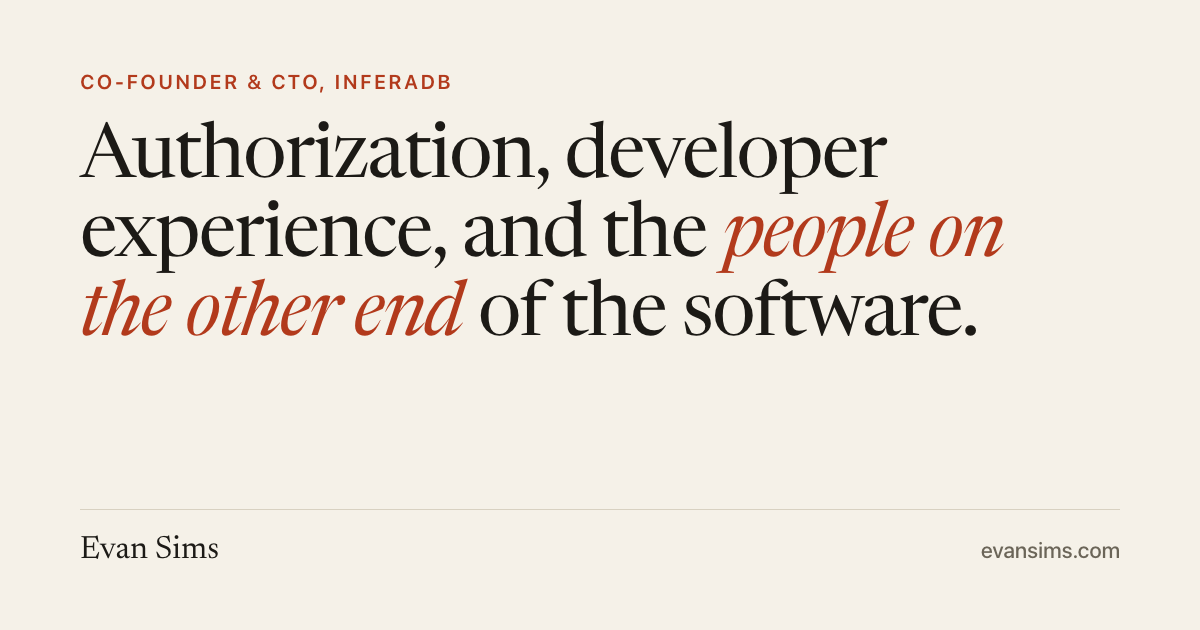
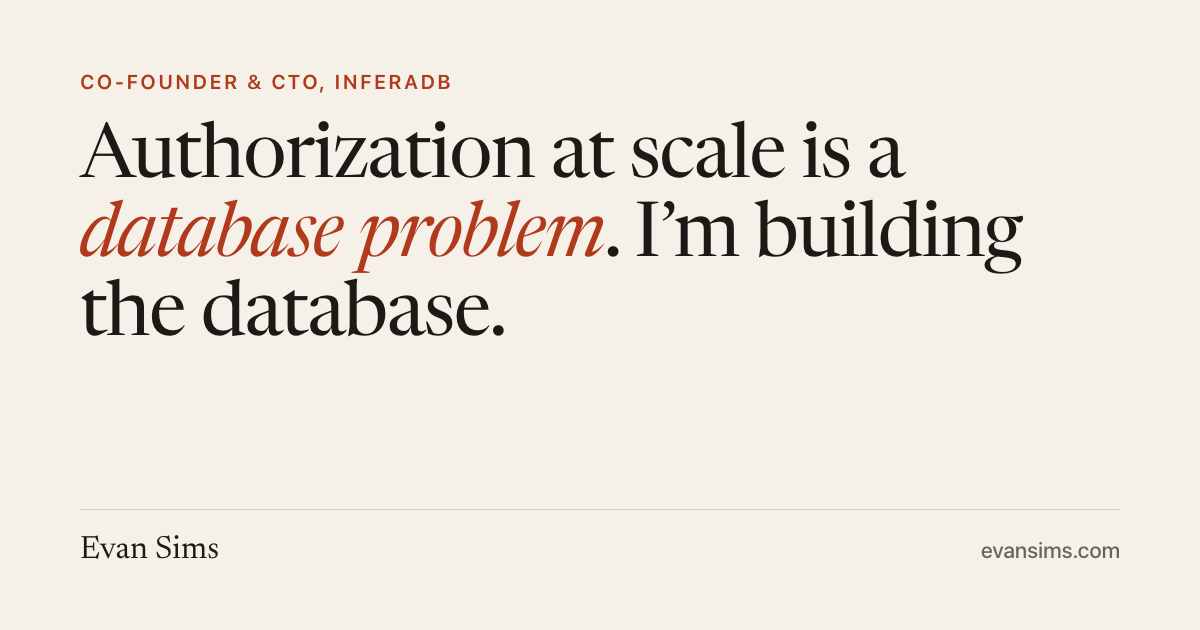
feat: lead the homepage with InferaDB and close on the ask
Rewrite the hero around a thesis headline, link InferaDB in the label
and lead, and point the actions at InferaDB and the writing. The lead
names the advisory work without naming the consultancy.

Add an "In their words" strip fed by _data/endorsements.yml, narrow
Selected writing to six engineering essays, and replace "Elsewhere"
with a "Work with me" close that follows the personal line.

Sharpen the InferaDB and Auth0 Record rows, update the site
description, give the section links 44px tap targets, and re-render
the social card with the new headline.

Changed region(s): [[0.0617, 0.181, 0.8633, 0.5429]]

diff --git a/docs/_layouts/home.html b/docs/_layouts/home.html
@@ -4,12 +4,12 @@ layout: default
 {%- assign email = site.data.socials | where: "site", "Email" | first -%}
 {%- assign featured = site.essays | where: "featured", true -%}
 <section class="hero">
-    <p class="label">{{ page.label | escape }}</p>
+    <p class="label">{{ page.label | markdownify | remove: "<p>" | remove: "</p>" | strip }}</p>
     <h1>{{ page.headline }}</h1>
-    <p class="lead">{{ page.lead | smartify }}</p>
+    <p class="lead">{{ page.lead | markdownify | remove: "<p>" | remove: "</p>" | strip }}</p>
     <p class="cta">
-        <a href="/writing">Read the writing <span aria-hidden="true">→</span></a>
-        <a class="quiet" href="{{ email.link }}">Get in touch</a>
+        <a href="https://inferadb.com">See InferaDB <span aria-hidden="true">↗</span></a>
+        <a class="quiet" href="/writing">Read the writing <span aria-hidden="true">→</span></a>
     </p>
 </section>
 <section class="sec">
@@ -30,27 +30,43 @@ layout: default
 </section>
 <section class="sec">
     <div class="sec-h">
+        <h2 class="label">In their words</h2>
+    </div>
+    <div class="said">
+        {%- for item in site.data.endorsements %}
+        <figure>
+            <blockquote><p>“{{ item.quote | smartify }}”</p></blockquote>
+            <figcaption><strong>{{ item.name | smartify }}</strong> {{ item.title | escape }}</figcaption>
+        </figure>
+        {%- endfor %}
+    </div>
+</section>
+<section class="sec">
+    <div class="sec-h">
         <h2 class="label">Selected writing</h2>
         <a href="/writing">All {{ site.essays.size }} essays <span aria-hidden="true">→</span></a>
     </div>
     {% include essay-list.html essays=featured %}
 </section>
 <section class="sec">
+    <p class="personal">{{ page.personal | smartify }}</p>
+</section>
+<section class="sec">
     <div class="sec-h">
-        <h2 class="label">Elsewhere</h2>
+        <h2 class="label">Work with me</h2>
     </div>
     <div class="else">
-        {%- for item in page.elsewhere %}
+        {%- for item in page.work %}
         <div>
             <h3>{{ item.title | escape }}</h3>
             <p>{{ item.body | smartify }}</p>
             {%- assign href = item.link_url -%}
-            {%- if href == "email" %}{% assign href = email.link %}{% endif %}
+            {%- if href == "email" -%}
+            {%- assign href = email.link -%}
+            {%- if item.subject %}{% capture href %}{{ email.link }}?subject={{ item.subject | url_encode }}{% endcapture %}{% endif -%}
+            {%- endif %}
             <a href="{{ href }}">{{ item.link_text | escape }} <span aria-hidden="true">→</span></a>
         </div>
         {%- endfor %}
     </div>
-</section>
-<section class="sec">
-    <p class="personal">{{ page.personal | smartify }}</p>
 </section>

diff --git a/docs/assets/css/site.css b/docs/assets/css/site.css
@@ -201,6 +201,8 @@ img {
 }
 
 .sec-h a {
+    margin-block: -0.9rem;
+    padding-block: 0.9rem;
     color: var(--soft);
     font: 500 0.85rem/1.2 var(--sans);
     white-space: nowrap;
@@ -521,6 +523,8 @@ img {
     text-decoration-color: var(--muted);
 }
 
+.label a,
+.lead a,
 .rec h3 a {
     text-decoration: underline;
     text-decoration-thickness: 1px;
@@ -528,11 +532,24 @@ img {
     text-underline-offset: 0.2em;
 }
 
+.label a {
+    text-decoration-color: currentColor;
+}
+
+.lead a {
+    color: var(--ink);
+}
+
 .cta a:hover,
 .else a:hover,
+.lead a:hover,
 .rec h3 a:hover {
     color: var(--accent);
     text-decoration-color: currentColor;
+}
+
+.label a:hover {
+    color: var(--ink);
 }
 
 .rec {
@@ -672,6 +689,31 @@ img {
     color: var(--accent);
 }
 
+.said {
+    display: grid;
+    grid-template-columns: repeat(2, minmax(0, 1fr));
+    gap: 2.5rem clamp(2rem, 5vw, 4rem);
+}
+
+.said blockquote {
+    font-size: clamp(1.3rem, 2.4vw, 1.7rem);
+    font-style: italic;
+    line-height: 1.3;
+    text-wrap: pretty;
+}
+
+.said figcaption {
+    margin-top: 1rem;
+    color: var(--muted);
+    font: 500 0.8125rem/1.4 var(--sans);
+}
+
+.said strong {
+    display: block;
+    color: var(--ink);
+    font-weight: 600;
+}
+
 .else {
     display: grid;
     grid-template-columns: repeat(3, minmax(0, 1fr));
@@ -722,6 +764,7 @@ img {
 @media (max-width: 720px) {
     .next,
     .rec,
+    .said,
     .else,
     .talks a {
         grid-template-columns: 1fr;

diff --git a/docs/_og/card.html b/docs/_og/card.html
@@ -60,7 +60,7 @@
     <body>
         <div>
             <p class="label">Co-founder &amp; CTO, InferaDB</p>
-            <h1>Authorization, developer experience, and the <em>people on the other end</em> of the software.</h1>
+            <h1>Authorization at scale is a <em>database problem</em>. I’m building the database.</h1>
         </div>
         <div class="foot"><span>Evan Sims</span><span>evansims.com</span></div>
     </body>

diff --git a/test/site_test.rb b/test/site_test.rb
@@ -290,6 +290,7 @@ class ShellTest < Minitest::Test
     described = %w[index.html writing.html talks.html 404.html].map { |path| meta_description(page(path)) }
     assert_equal described.size, described.uniq.size
     assert_equal "Talks, demos, and community meetings on authorization and developer experience.", described[2]
+    assert_includes described[0], "He writes about developer experience, systems, and building software."
   end
 
   def test_robots_follows_the_configured_url
@@ -440,13 +441,41 @@ class PagesTest < Minitest::Test
     assert_equal ["Since 2025", "Since 2026", "2024–25", "2020–24", "Earlier"], whens
     assert_includes home, '<p class="role">Principal software architect</p>'
     assert_includes home, '<p class="role">Staff software engineer · OpenFGA founding engineer</p>'
-    assert_includes home, "consulting with Anthropic Identity"
+    assert_includes home, "A database built only for authorization."
+    assert_includes home, "helped lead Auth0 through FedRAMP certification"
     featured = YAML.load_file(File.join(DOCS, "_data/writing.yml")).select { |item| item["featured"] }.map { |item| item["slug"] }
     assert_equal featured, toc_links(home)
+    assert_equal %w[
+      the-interface-is-the-speed-limit beliefs developer-experience agentic-engineering
+      the-art-of-building-open-source-libraries developer-products
+    ], featured
     assert_includes home, "All #{slugs.size} essays"
     assert_includes home, 'href="/resume.pdf"'
     assert_includes home, "getting lost in music"
     refute_match(/podcast/i, home)
+  end
+
+  def test_home_hero_leads_with_the_company
+    hero = page("index.html")[%r{<section class="hero">.*?</section>}m]
+    assert_includes hero, '<p class="label">Co-founder &amp; CTO, <a href="https://inferadb.com">InferaDB</a></p>'
+    assert_includes hero, "Authorization at scale is a <em>database problem</em>."
+    assert_includes hero, 'co-founder and CTO of <a href="https://inferadb.com">InferaDB</a>'
+    assert_includes hero, "I also advise Fortune 500 enterprises on modernizing their identity and authorization."
+    refute_includes hero, "Anthropic Identity"
+    actions = hero[%r{<p class="cta">.*?</p>}m].scan(/href="([^"]+)"/).flatten
+    assert_equal ["https://inferadb.com", "/writing"], actions
+  end
+
+  def test_home_closes_on_the_ask
+    home = page("index.html")
+    assert_equal 2, home.scan("<blockquote").size
+    assert_includes home, "Ryan O’Sullivan"
+    assert_includes home, "Adam McGrath"
+    assert_includes home, ">Work with me</h2>"
+    assert_equal %w[InferaDB Advising Speaking], home.scan(%r{<div>\s*<h3>([^<]+)</h3>}).flatten
+    assert_includes home, "mailto:hello@evansims.com?subject=InferaDB"
+    refute_includes home, "For agents"
+    assert_operator home.index("getting lost in music"), :<, home.index("Work with me")
   end
 
   def test_writing_index_groups_and_order

diff --git a/docs/index.md b/docs/index.md
@@ -1,20 +1,21 @@
 ---
 layout: home
-label: "Co-founder & CTO, InferaDB"
-headline: "Authorization, developer experience, and the <em>people on the other end</em> of the software."
-lead: "I'm Evan. I build InferaDB, the authorization database, and advise Fortune 500 enterprises on identity modernization as a principal software architect consulting with Anthropic Identity. Before that I was a founding engineer on OpenFGA at Okta, and an early engineer on Auth0's developer experience team."
+label: "Co-founder & CTO, [InferaDB](https://inferadb.com)"
+headline: "Authorization at scale is a <em>database problem</em>. I’m building the database."
+lead: "I'm Evan, co-founder and CTO of [InferaDB](https://inferadb.com), the authorization database. Before that I was a founding engineer on OpenFGA at Okta and shipped 45+ open source libraries on Auth0's developer experience team. I also advise Fortune 500 enterprises on modernizing their identity and authorization."
 personal: "When I'm not working, I'm usually reading history and philosophy, exploring longevity and biohacking, or getting lost in music."
-elsewhere:
-  - title: Speaking
-    body: "Talks, demos, and community meetings on authorization and developer experience."
-    link_text: "Watch the talks"
-    link_url: /talks
+work:
+  - title: InferaDB
+    body: "Evaluating InferaDB, or thinking about backing it? I'll walk you through the architecture and where it's going."
+    link_text: "Email me about InferaDB"
+    link_url: email
+    subject: InferaDB
   - title: Advising
-    body: "I occasionally advise companies. Reach out if you'd like to collaborate."
+    body: "I advise engineering leaders on identity modernization and fine-grained authorization. Tell me what you're migrating from."
     link_text: "Get in touch"
     link_url: email
-  - title: For agents
-    body: "Every essay is also plain Markdown, indexed at /llms.txt, with a full-text feed."
-    link_text: "/llms.txt"
-    link_url: /llms.txt
+  - title: Speaking
+    body: "Recorded talks and live demos on OpenFGA, authorization, and developer experience."
+    link_text: "Watch the talks"
+    link_url: /talks
 ---
